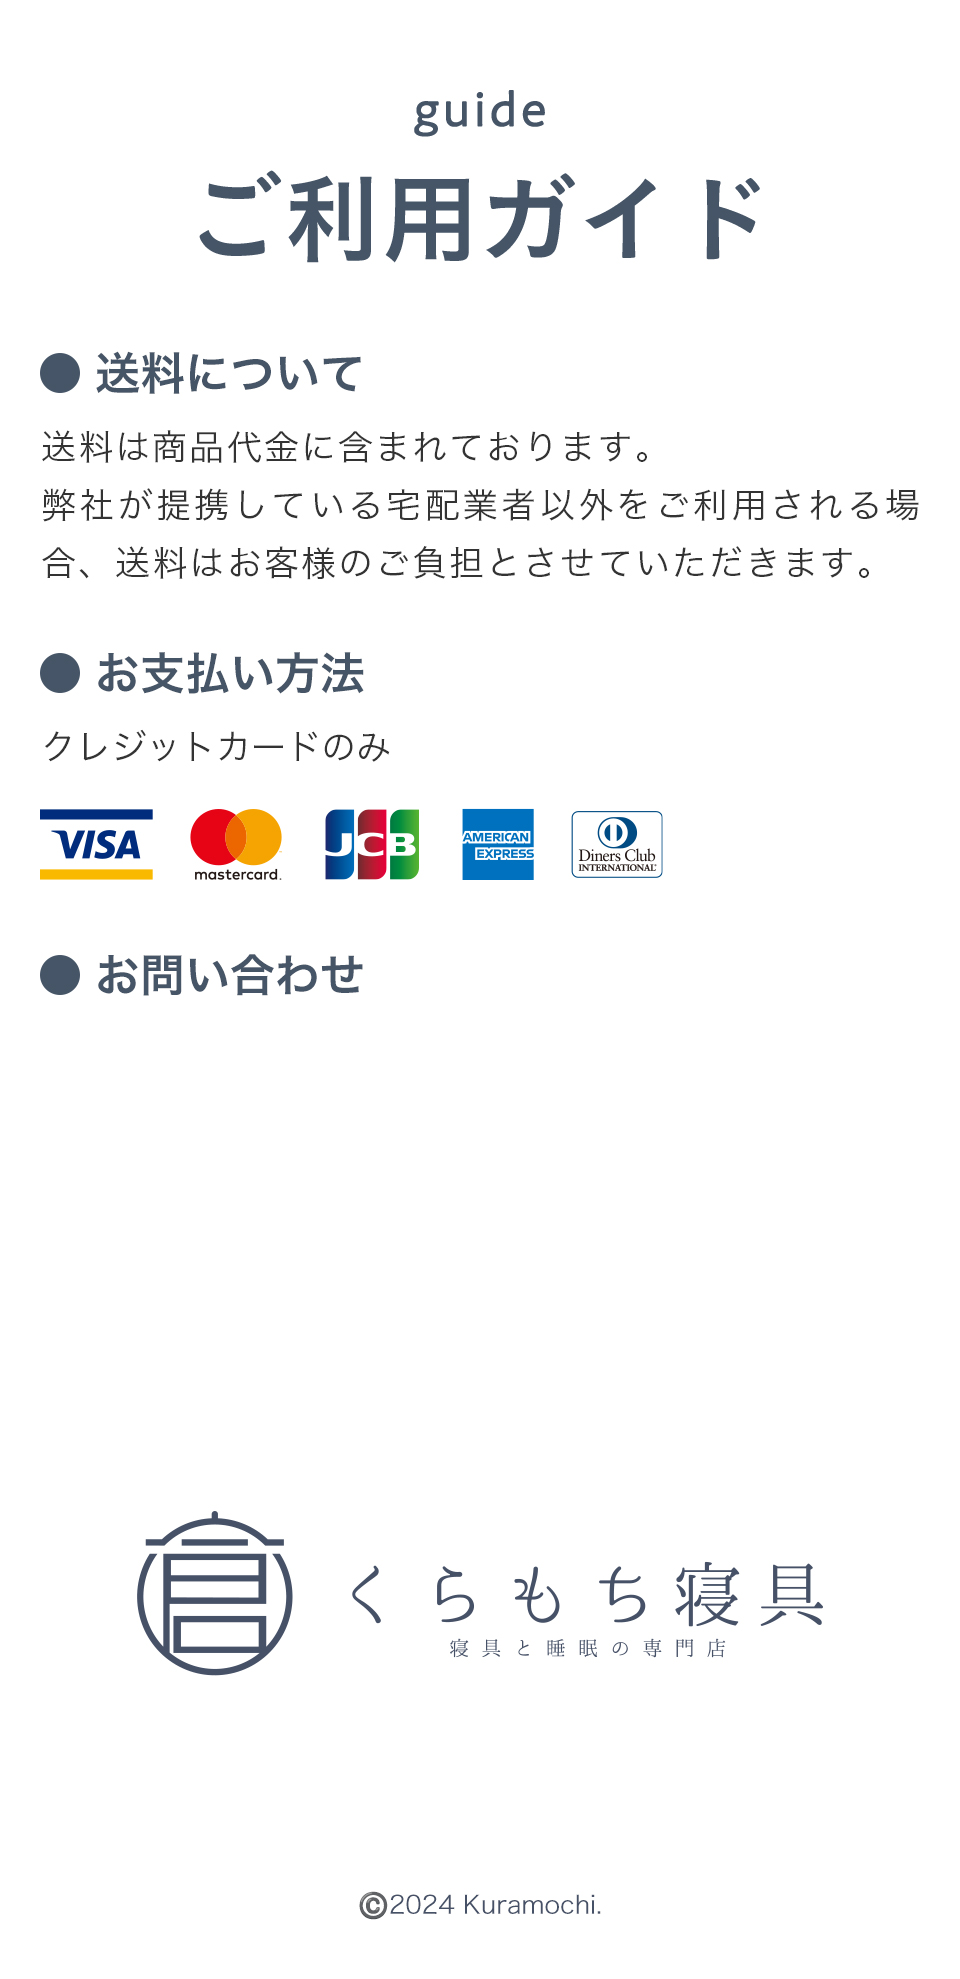
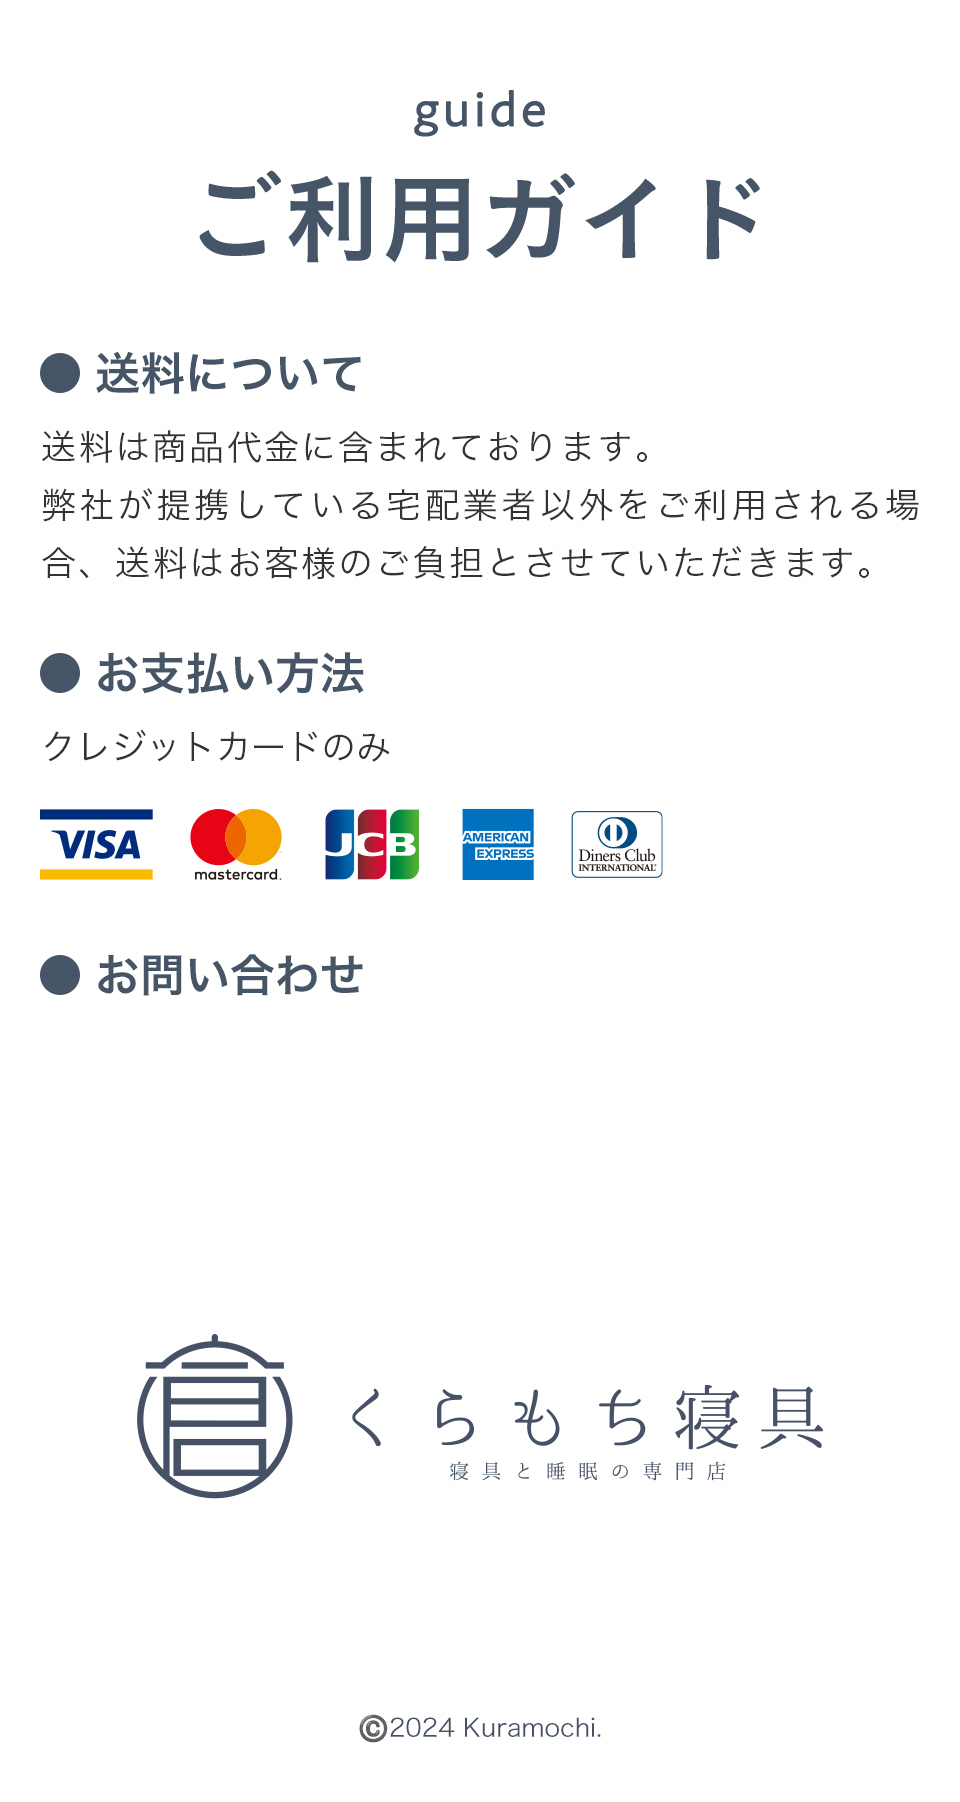
ヘッダー修正・フッター修正・リンク設置

diff --git a/makeshop/bk/header.html b/makeshop/bk/header.html
@@ -1,0 +1,72 @@
+<!-- ヘッダー -->
+<header class="header">
+  <!-- ロゴ画像があれば画像、なければショップ名を表示 -->
+  <h1 class="shop-name">
+      <a href="<{$url.top}>"><{if $shop.logo_url}><img src="<{$shop.logo_url}>" alt="<{$shop.name}>"><{else}><{$shop.name}><{/if}></a>
+  </h1>
+  <ul class="head-btn">
+      <li class="head-btn-item head-btn-dropdown"><span class="dropdown-switch dropdown-open">メニュー</span></li>
+      <li class="head-btn-item head-btn-account">
+      <!-- ログインしていたら -->
+      <{if $member.is_logged_in}>
+          <div class="member-nav-wrap">
+              <p class="member-name"><{$member.name}>さま</p>
+              <ul class="member-nav">
+                  <li class="member-nav-item"><a href="<{$url.mypage}>">マイページ</a></li>
+                  <li class="member-nav-item"><a href="<{$url.logout}>">ログアウト</a></li>
+              </ul>
+          </div>
+      <{else}>
+          <a href="<{$url.mypage}>" class="head-btn-login head-btn-icon">アカウント</a>
+      <{/if}>
+      </li>
+      <li class="head-btn-item head-btn-cart"><a href="<{$url.cart}>" class="head-btn-icon">カート<{if $cart.has_item}><span class="cart-badge"></span><{/if}></a></li>
+  </ul>
+</header>
+
+<nav class="dropdown-nav">
+  <div class="dropdown-wrap"><span class="dropdown-switch dropdown-close">×</span>
+      <div class="dropdown-account">
+      <!-- ログインしていたら -->
+      <{if $member.is_logged_in}>
+          <p class="dropdown-member-name"><{$member.name}>さま</p>
+          <ul class="dropdown-member-nav">
+              <li class="dropdown-member-nav-item"><a href="<{$url.mypage}>">マイページ</a></li>
+              <li class="dropdown-member-nav-item"><a href="<{$url.logout}>">ログアウト</a></li>
+          </ul>
+      <{else}>
+          <p class="dropdown-account-login"><a href="<{$url.login}>">ログイン</a></p>
+      <{/if}>
+      </div>
+      <ul class="dropdown-list">
+          <li class="dropdown-nav-item"><a href="<{$url.top}>">ホーム</a></li>
+          <li class="dropdown-nav-item"><a href="<{$url.guide}>">ご利用ガイド</a></li>
+          <li class="dropdown-nav-item"><a href="<{$url.support}>">お問い合わせ</a></li>
+          <li class="dropdown-nav-item">
+              <p class="dropdown-nav-title">カテゴリー</p>
+              <ul class="dropdown-nav-category-list">
+              <{section name=i loop=$category_menu.list}>
+                  <li class="dropdown-nav-category-item"><a href="<{$category_menu.list[i].url}>"><{$category_menu.list[i].name}></a></li>
+              <{/section}>
+              </ul>
+          </li>
+      </ul>
+  </div>
+</nav>
+
+<nav class="nav">
+  <ul class="nav-list">
+      <li class="nav-item nav-home"><a href="<{$url.top}>">ホーム</a></li>
+      <li class="nav-item nav-category"><span class="nav-category-switch">カテゴリー</span>
+          <div class="nav-category-wrap">
+              <ul class="nav-category-list">
+                  <{section name=i loop=$category_menu.list}>
+                  <li class="nav-category-item"><a href="<{$category_menu.list[i].url}>"><{$category_menu.list[i].name}></a></li>
+                  <{/section}>
+              </ul>
+          </div>
+      </li>
+      <li class="nav-item nav-guide"><a href="<{$url.guide}>">ご利用ガイド</a></li>
+      <li class="nav-item nav-contact"><a href="<{$url.support}>">お問い合わせ</a></li>
+  </ul>
+</nav>

diff --git a/makeshop/header.html b/makeshop/header.html
@@ -1,0 +1,55 @@
+<!-- ヘッダー -->
+<header class="header">
+  <!-- ロゴ画像があれば画像、なければショップ名を表示 -->
+  <h1 class="shop-name">
+      <{if $shop.logo_url}><img src="<{$shop.logo_url}>" alt="<{$shop.name}>"><{else}><p><{$shop.name}></p><{/if}>
+  </h1>
+  <ul class="head-btn">
+      <li class="head-btn-item head-btn-dropdown"><span class="dropdown-switch dropdown-open">メニュー</span></li>
+      <li class="head-btn-item head-btn-account">
+      <!-- ログインしていたら -->
+      <{if $member.is_logged_in}>
+          <div class="member-nav-wrap">
+              <p class="member-name"><{$member.name}>さま</p>
+              <ul class="member-nav">
+                  <li class="member-nav-item"><a href="<{$url.mypage}>">マイページ</a></li>
+                  <li class="member-nav-item"><a href="<{$url.logout}>">ログアウト</a></li>
+              </ul>
+          </div>
+      <{else}>
+          <a href="<{$url.mypage}>" class="head-btn-login head-btn-icon">アカウント</a>
+      <{/if}>
+      </li>
+      <li class="head-btn-item head-btn-cart"><a href="<{$url.cart}>" class="head-btn-icon">カート<{if $cart.has_item}><span class="cart-badge"></span><{/if}></a></li>
+  </ul>
+</header>
+
+<nav class="dropdown-nav">
+  <div class="dropdown-wrap"><span class="dropdown-switch dropdown-close">×</span>
+      <div class="dropdown-account">
+      <!-- ログインしていたら -->
+      <{if $member.is_logged_in}>
+          <p class="dropdown-member-name"><{$member.name}>さま</p>
+          <ul class="dropdown-member-nav">
+              <li class="dropdown-member-nav-item"><a href="<{$url.mypage}>">マイページ</a></li>
+              <li class="dropdown-member-nav-item"><a href="<{$url.logout}>">ログアウト</a></li>
+          </ul>
+      <{else}>
+          <p class="dropdown-account-login"><a href="<{$url.login}>">ログイン</a></p>
+      <{/if}>
+      </div>
+      <ul class="dropdown-list">
+          <li class="dropdown-nav-item"><a href="page/cleaning">ふとんクリーニング</a></li>
+          <li class="dropdown-nav-item"><a href="page/uchinaoshi">羽毛ふとんリフォーム</a></li>
+          <li class="dropdown-nav-item"><a href="<{$url.support}>">お問い合わせ</a></li>
+      </ul>
+  </div>
+</nav>
+
+<nav class="nav">
+  <ul class="nav-list">
+    <li class="nav-item nav-contact"><a href="page/cleaning">ふとんクリーニング</a></li>
+    <li class="nav-item nav-contact"><a href="page/uchinaoshi">羽毛ふとんリフォーム</a></li>
+    <li class="nav-item nav-contact"><a href="<{$url.support}>">お問い合わせ</a></li>
+  </ul>
+</nav>

diff --git a/makeshop/uchinaoshi/index.html b/makeshop/uchinaoshi/index.html
@@ -55,13 +55,15 @@
         <section id="contact" class="lp_06 ps_r">
           <img src="https://gigaplus.makeshop.jp/kuramochi/uchinaoshi_lp/images/lp_06.jpg" alt="お問い合わせ">
           <a href="tel:08009197787" class="ps_a_02"><img src="https://gigaplus.makeshop.jp/kuramochi/uchinaoshi_lp/images/contact_tel_btn.png" alt="お電話受付時間 9:00～18:00"></a>
-          <a href="" class="ps_a_03"><img src="https://gigaplus.makeshop.jp/kuramochi/uchinaoshi_lp/images/contact_form_btn.png" alt="お問い合わせフォーム"></a>
+          <a href="http://kuramochi.shop13.makeshop.jp/html/email.html" class="ps_a_03"><img src="https://gigaplus.makeshop.jp/kuramochi/uchinaoshi_lp/images/contact_form_btn.png" alt="お問い合わせフォーム"></a>
         </section>
         <section class="lp_07 ps_r">
           <img src="https://gigaplus.makeshop.jp/kuramochi/uchinaoshi_lp/images/lp_07.jpg" alt="footer">
           <div class="bl_link ps_a_04">
-            <a href="https://kuramochishingu.com/privacypolicy" target="_blank">プライバシーポリシー</a>
-            <a href="https://kuramochishingu.com/coolingoff" target="_blank">クーリングオフ</a>
+            <a href="https://kuramochishingu.com/privacypolicy" target="_blank" rel="noopener noreferrer">プライバシーポリシー</a>
+            <a href="https://kuramochishingu.com/coolingoff" target="_blank" rel="noopener noreferrer">クーリングオフ</a>
+            <a href="http://kuramochi.shop13.makeshop.jp/view/contract" target="_blank" rel="noopener noreferrer">特商法</a>
+            <a href="http://kuramochi.shop13.makeshop.jp/view/guide" target="_blank" rel="noopener noreferrer">ご利用ガイド</a>
           </div>
         </section>
       </div>

diff --git a/makeshop/cleaning/index.html b/makeshop/cleaning/index.html
@@ -373,13 +373,14 @@
         <footer class="sec16">
           <img src="https://gigaplus.makeshop.jp/kuramochi/cleaning_lp/images/sec16.jpg" alt="ご利用ガイド">
           <div class="sec16_info">
-            <p>下記お問い合わせフォームへお問い合わせお願いいたします。</p>
-            <a href="https://kuramochishingu.com/contact" target="_blank" rel="noopener noreferrer">https://kuramochishingu.com/contact</a>
+            <p><a href="http://kuramochi.shop13.makeshop.jp/html/email.html" target="_blank" rel="noopener noreferrer">お問い合わせフォーム</a>へお問い合わせお願いいたします。</p>
             <p>株式会社くらもち<br>TEL : 045-311-3232<br>※営業時間／9:00 ~ 18:00（土・日・祝日を除く）</p>
           </div>
           <div class="sec16_underLink">
             <a href="https://kuramochishingu.com/privacypolicy" target="_blank" rel="noopener noreferrer">プライバシーポリシー</a>
             <a href="https://kuramochishingu.com/coolingoff" target="_blank" rel="noopener noreferrer">クーリングオフ</a>
+            <a href="http://kuramochi.shop13.makeshop.jp/view/contract" target="_blank" rel="noopener noreferrer">特商法</a>
+            <a href="http://kuramochi.shop13.makeshop.jp/view/guide" target="_blank" rel="noopener noreferrer">ご利用ガイド</a>
           </div>
         </footer>
       </div>

diff --git a/assets/css/style.css b/assets/css/style.css
@@ -60,18 +60,24 @@ a:hover {
 
 .ps_a_04 {
   position: absolute;
-  bottom: 30%;
+  bottom: 26%;
   left: 50%;
   transform: translateX(-50%);
   width: 85%;
 }
 .ps_a_04.bl_link {
-  width: 60%;
+  width: 72%;
   font-family: kozuka-gothic-pr6n, sans-serif;
   font-size: 12px;
-  color: #465167;
   display: flex;
-  justify-content: space-between;
+  flex-wrap: wrap;
+  -moz-column-gap: 40px;
+       column-gap: 40px;
+  row-gap: 15px;
+}
+.ps_a_04.bl_link a {
+  width: 42%;
+  color: #333;
 }
 .ps_a_04 img {
   width: 100%;

diff --git a/本体/assets/css/style.css b/本体/assets/css/style.css
@@ -449,7 +449,7 @@ input[type="image"] {
   color: #333;
   line-height: 1.7;
   position: absolute;
-  top: 60%;
+  top: 63.5%;
   transform: translateY(-50%);
 }
 
@@ -462,15 +462,17 @@ input[type="image"] {
   width: 100%;
   padding: 0 15px;
   display: flex;
-  flex-wrap: nowrap;
+  flex-wrap: wrap;
   justify-content: center;
-  gap: 40px;
+  column-gap: 40px;
+  row-gap: 15px;
   position: absolute;
-  bottom: 10%;
+  bottom: 9%;
   box-sizing: border-box;
 }
 
 .sec16_underLink a {
+  width: 34%;
   color: #333;
 }
 

diff --git a/assets/css/style.scss b/assets/css/style.scss
@@ -57,17 +57,22 @@ a:hover {
 }
 .ps_a_04 {
   position: absolute;
-  bottom: 30%;
+  bottom: 26%;
   left: 50%;
   transform: translateX(-50%);
   width: 85%;
   &.bl_link {
-    width: 60%;
+    width: 72%;
     font-family: kozuka-gothic-pr6n, sans-serif;
     font-size: 12px;
-    color: #465167;
     display: flex;
-    justify-content: space-between;
+    flex-wrap: wrap;
+    column-gap: 40px;
+    row-gap: 15px;
+    a {
+      width: 42%;
+      color: #333;;
+    }
   }
   img {
     width: 100%;

diff --git a/makeshop/bk/footer.html b/makeshop/bk/footer.html
@@ -1,0 +1,8 @@
+<!-- フッター -->
+<footer class="footer">
+  <ul class="footer-list">
+      <li class="footer-item"><a href="<{$url.policy}>">プライバシーポリシー</a></li>
+      <li class="footer-item"><a href="<{$url.contract}>">特定商取引法</a></li>
+  </ul>
+  <p class="copyright"><{$shop.copyright}></p>
+</footer>

diff --git a/makeshop/footer.html b/makeshop/footer.html
@@ -1,0 +1,8 @@
+<!-- フッター -->
+<footer class="footer">
+  <ul class="footer-list">
+      <li class="footer-item"><a href="<{$url.policy}>">プライバシーポリシー</a></li>
+      <li class="footer-item"><a href="<{$url.contract}>">特定商取引法</a></li>
+  </ul>
+  <p class="copyright"><{$shop.copyright}></p>
+</footer>
